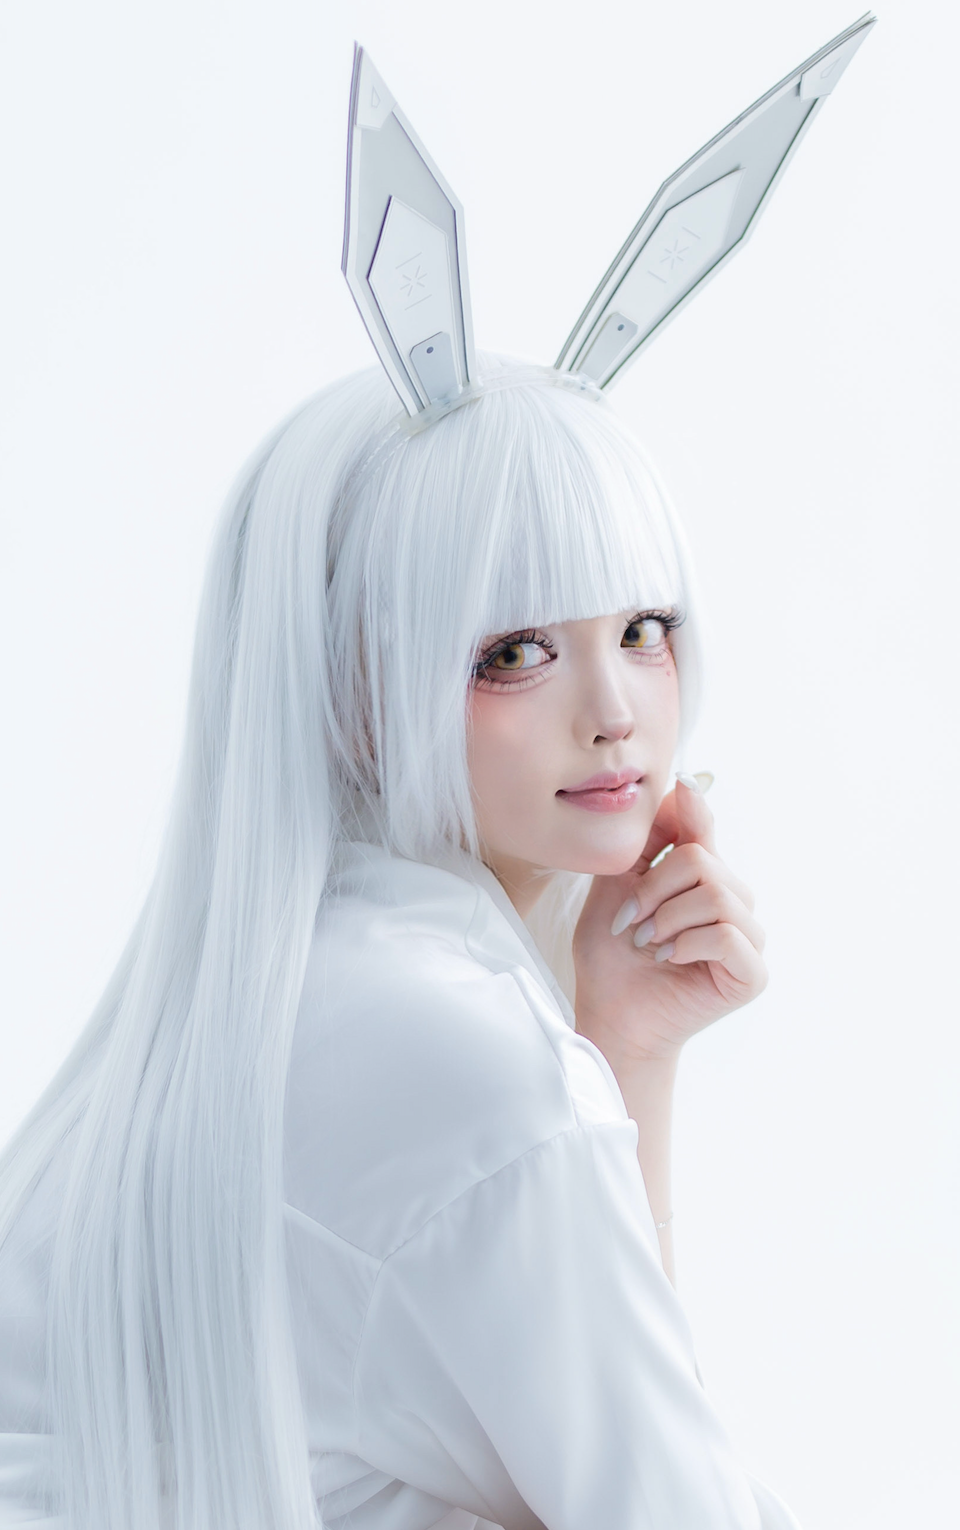
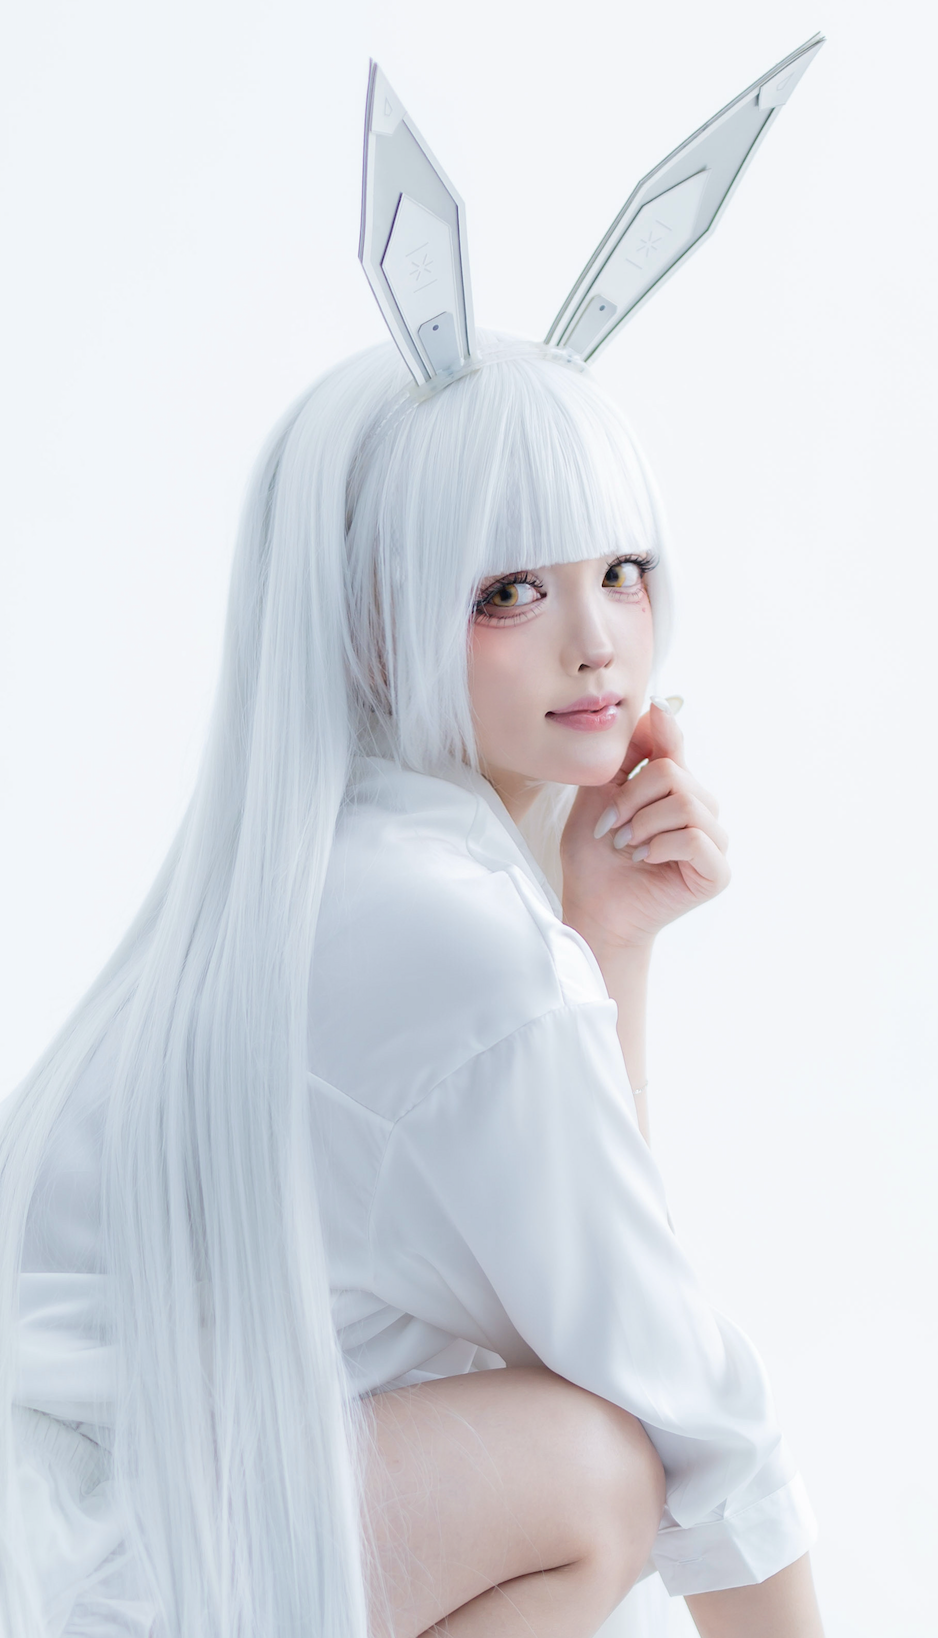
About: swap the portrait again
The master had been removed, so the new file is promoted to take its
place and the web copy regenerated from it. Cache-buster goes to v=5.

The frame takes the new shape on its own, so nothing is cropped.

Changed region(s): [[0.1855, 0.0, 0.9275, 1.0], [0.0, 0.5222, 0.2473, 1.0], [0.1546, 0.6144, 0.3092, 0.768]]

diff --git a/index.html b/index.html
@@ -1839,7 +1839,7 @@ section.active { display: block; }
   <div class="about-grid">
     <div>
       <div class="about-photo">
-        <img src="images/about-chloe.jpg?v=4" alt="Chloe" loading="lazy" decoding="async"/>
+        <img src="images/about-chloe.jpg?v=5" alt="Chloe" loading="lazy" decoding="async"/>
       </div>
     </div>
     <div class="about-text">
